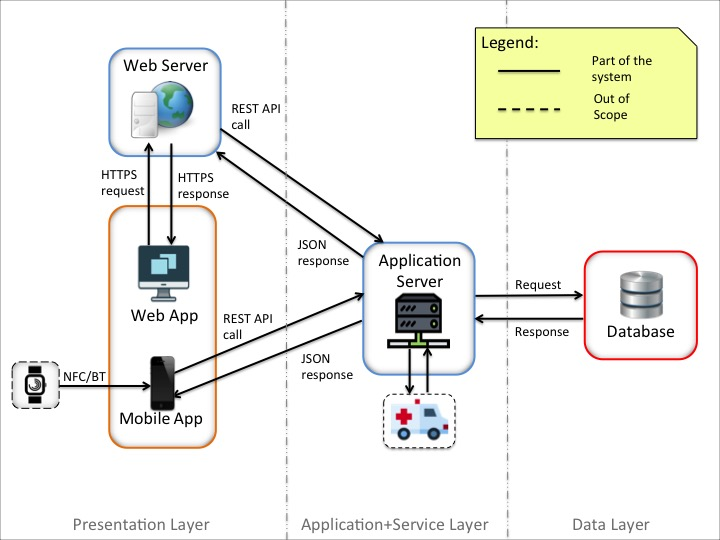
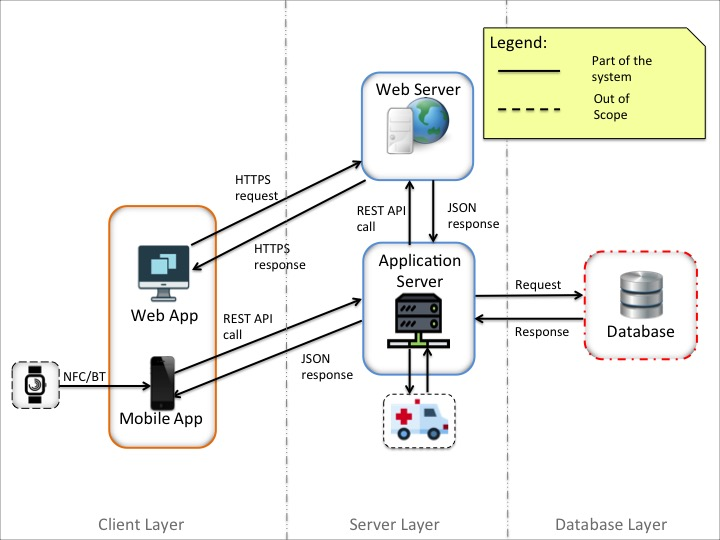
Updates from ShareLaTeX

diff --git a/DD/main.tex b/DD/main.tex
@@ -28,7 +28,7 @@
 
 \section{Introduction}
 \subsection{Purpose}
-    The Purpose of this Design Document is to provide the precise implementation details required to satisfy the requirements specified in the RASD.
+    The Purpose of this Design Document is to provide the precise implementation details required to satisfy the requirements specified in the RASD \cite{rasd}.
     It is assumed that the reader has read the RASD before this document.
     
     The purpose of this paper is also to point out the main components, their interfaces and their behaviours, show the high level architecture and its interaction with architectural components and to identify style and design patterns that shall be used in deployment of the application. This Document will provide detailed explanation of each functionality through components and sequence diagrams also used to explain to programmers the overall structure of the system in a precise and implementation-oriented way.
@@ -91,14 +91,18 @@
                 \acro{RASD}{Requirement Analysis and Specification Document}
                 \acro{UX}{User eXperience}
                 \acro{ER}{Entity Relationship}
+                \acro{DAO}{Data Access Object}
+                \acro{DTO}{Data Transfer Object}
             \end{acronym}
             
             \subsubsection{Definitions}
             \begin{description}
                  \item[Business Logic Layer] another term to intend the Application and Service Layers together
-                 \item[Controller] a component of the presentation layer that is responsible of handling events from the client
+                 \item[Controller] a component of the application layer that is responsible of handling events from the client
                  \item[Service] part of the business logic, is the core logic of a specific function or set of functions
                  \item[Repository] is the component that handles query methods against the database
+                 \item[Data Access Object] sometimes called \textit{Entity}, is the object used by Repository to map data to a specific object thus, it should encapsulate the logic for retrieving, saving and updating data in the data storage
+                 \item[Data Transfer Object] also called \textit{Bean} is the representation of a DAO and it is used to transfer the data between modules of the application
             \end{description}
             
             \subsubsection{Abbreviation}
@@ -142,16 +146,16 @@
 \newpage
 \section{Architectural Design}
 \subsection{High Level Components and their Interaction}
-The system is deployed on four different tiers: the Data layer, the Application Layer, the Service layer and the Presentation layer, that are respectively mapped on the four main components of the software application: the data handling logic, the services, the controllers and the client application.
+The system is deployed on three different tiers: the Persistence layer, the Service layer and the Application layer, that are respectively mapped on the three main components of the software application: the data handling logic, the services, and the controllers.
 \begin{figure}[!htpb]
     	\centering
     	\includegraphics[width=100mm,keepaspectratio]{images/highlevel.jpg}
     	\caption{High Level interaction diagram}
 \end{figure}
 
-The main component is the system itself and includes both the \textit{Web Server} and the \textit{Application Server}. The former communicates in synchronous way over HTTPS with client browser or mobile application, while the latter manages all the application logic and it is interfaced with the \textit{Data Layer}. Furthermore, the \textit{Presentation Layer} can also \textit{consume} REST services made available by the \textit{Application Server}. The \textit{Data Layer} instead is composed of the data management logic and is responsible of the communication with the DBMS.
+The main component is the system itself and includes both the \textit{Web Server} and the \textit{Application Server}. The former communicates in synchronous way over HTTPS with client browser or mobile application, while the latter manages all the application logic and it is interfaced with the \textit{Persistence Layer}. Furthermore, the \textit{Application Layer} can also \textit{consume} REST services made available by the \textit{Application Server}. The \textit{Persistence Layer} instead is composed of the data management logic and is responsible of the communication with the DBMS.
 
-Moreover, both the \textit{Business Logic Layer} and the \textit{Presentation Layer} should interact with external services:
+Moreover, both the \textit{Business Logic Layer} and the \textit{Application Layer} should interact with external services:
 
 \begin{itemize}
     \item The \textit{Mobile Application} may be connected with an external device such as smart-watches, specific pathology's monitoring devices or other types of external devices able to monitor health parameters with BT or NFC connection;
@@ -164,14 +168,12 @@ Moreover, both the \textit{Business Logic Layer} and the \textit{Presentation La
     	\includegraphics[width=100mm,keepaspectratio]{images/highlevel2.png}
     	\caption{High Level components diagram}
 \end{figure}
-\hfill
-\comment{googlemaps api doesn't interact with server}
+
 \newpage
 \subsection{Component View}
     
-    \subsubsection{Data Layer}
-    
-    \comment{this should be below the class diagram, not here. I think this is also useless to say for every repository "this saves and get data...": just say that our repositories job is to access database. each repository can access a table in our db.}
+    \subsubsection{Persistence Layer}
+        
     \paragraph{Health Data Repository:}
     saves and get individuals' health data from the database.
     
@@ -216,6 +218,11 @@ Moreover, both the \textit{Business Logic Layer} and the \textit{Presentation La
     \paragraph{Track4Run Service:}
     is encharged of handling runs for creation, enrollment and watching.
     
+    \subsubsection{External Services}
+    
+    \paragraph{Dispatcher API:}
+    used by the Sos service to communicate with ambulances dispatcher.
+    
     \subsubsection{Application Layer}
     
     \paragraph{Authenticator Controller:}
@@ -236,34 +243,17 @@ Moreover, both the \textit{Business Logic Layer} and the \textit{Presentation La
     \paragraph{Run Controller:}
     handles the creation of a run and allows both Athletes and Spectators to respectively enroll and watch run. This component also handles for organizer definition of the path of the run and, for spectators, watching that run to see athletes position and the predefined path on an interactive map.
     
-    \subsubsection{External Services}
-    
-    \paragraph{Dispatcher API:}
-    used by the Sos service to communicate with ambulances dispatcher.
-    
-    \subsubsection{Presentation Layer}
-    
-    \paragraph{Model:}
-    a set of components representing the data used to build the user interface.
+    \subsubsection{Presentation Layer (Client)}
     
     \paragraph{View:}
-    a set of components responsible of showing the data related to the respective model.
     
     \paragraph{Google Maps API:}
-    used by the client to create maps through Google Maps services.
+    used by the client application to create maps through Google Maps services.
     
     \paragraph{External Device API:}
-    used to connect and get data from the Individual external device from a common smart-watch to a specific pathology monitoring device.
+    allows connection with and data acquisition from the Individual external device from a common smart-watch to a specific pathology monitoring device.
 
 \newpage
-\subsection{Deployment View}
-\begin{figure}[!htpb]
-    \centering
-    \includegraphics[width=100mm,keepaspectratio]{images/UML/deployment_TrackMe.jpg}
-    \caption{TrackMe Deployment Diagram}
-    \label{fig:deployment_trackme}
-\end{figure}
-
 \subsection{Component Interfaces}
 \begin{figure}[!htpb]
     \centering
@@ -296,26 +286,35 @@ Moreover, both the \textit{Business Logic Layer} and the \textit{Presentation La
     \label{fig:component_track4run}
 \end{figure}
 
-    \begin{figure}[!htpb]
-        \centering
-        \includegraphics[width=\textwidth,keepaspectratio]{DD/images/er_diagram.png}
-        \caption{ER Diagram}
-        \label{fig:ER_trackme}
-    \end{figure}
+\begin{figure}[!htpb]
+    \centering
+    \includegraphics[width=100mm,keepaspectratio]{DD/images/er_diagram.png}
+    \caption{ER Diagram}
+    \label{fig:ER_trackme}
+\end{figure}
+
+\newpage
+\subsection{Deployment View}
+\begin{figure}[!htpb]
+    \centering
+    \includegraphics[width=100mm,keepaspectratio]{images/UML/deployment_TrackMe.jpg}
+    \caption{TrackMe Deployment Diagram}
+    \label{fig:deployment_trackme}
+\end{figure}    
     
 \newpage
 \subsection{Runtime View}
 
 \newpage
 \subsection{Selected Architectural Styles and Patterns}
-    The overall architecture is structured as a multi tier architecture: the \textit{Pre-\newline sentation Layer}, the \textit{Application Layer}, the \textit{Service Layer} and the \textit{Data Layer}. The latter communicates with a DBMS and is encharged of keeping data synchro-\newline nized with the database.
+    The overall architecture is structured as a multi tier architecture: the \textit{Pre-\newline sentation Layer}, the \textit{Service Layer} and the \textit{Persistence Layer}. The latter communicates with a DBMS and is encharged of keeping data synchro-\newline nized with the database.
     
-    With respect to the first three tiers instead, on one hand there is the client which will be represented by the \textit{Presentation Tier}: the mobile application installed on the mobile device. On the other hand, the server is the \textit{Application Tier} and \textit{Service Tier}: the latter handles all the application logic and services, the former instead is an abstraction layer that specifies the shared communica-\newline tions protocols and interface methods used by hosts in a communications network.
+    With respect to the first two tiers instead, on one hand there is the client which will be represented by the \textit{Presentation Tier}: the mobile application installed on the mobile device. On the other hand, the server is the \textit{Service Tier}: the latter handles all the application logic and services, the former instead is an abstraction layer that specifies the shared communications protocols and interface methods used by hosts in a communications network.
     
     In order to implement such architecture, based on RESTful API, the following architectural style and design pattern should be taken into account:
     \begin{description}
         \item[Multi-tier Architecture:] as showed previously in this document, the layered architecture pattern allows developers to separate the presentation from the business logic and to realize a thin client with only the user interfaces and input forms and a more complex server that handles all the software services;
-        \item[Model View Controller:] in this pattern there are three entities: the \textit{Model} which came from the presentation layer and essentially maintains all the data related to a certain client event, the \textit{View} that is responsible of showing to customers model's data, and finally the \textit{Controller} that is the bridge between \textit{Presentation} and \textit{Service} layers and is responsible of handling all the events related to a certain \textit{Model} and further refresh of the related \textit{View}.
+        \item[Model View Controller:] in this pattern there are three entities: the \textit{Model} which essentially maintains all the data related to a certain client event, the \textit{View} that is responsible of showing to customers model's data, and finally the \textit{Controller} that is the bridge between \textit{Presentation} and \textit{Service} layers and is responsible of handling all the events related to a certain \textit{Model} and further refresh of the related \textit{View}.
     \end{description}
 
 \subsection{Other Design Decisions}
@@ -570,30 +569,74 @@ Once in the \textit{Truck4Run} section, the individual can create, watch, enroll
 
 \newpage
 \section{Implementation, Integration \& Test Plan}
-Due to the multi-tier architecture style, the different \textit{Presentation}, \textit{Application}, \textit{Domain} and \textit{Data} layers of the application could be developed separately and may be developed in parallel. With respect to specific application services, the implementation plan to be followed should be to develop first \textit{Data4Help} functions and then \textit{Automated-Sos} and \textit{Authentication} facilities, which are built on top of \textit{Data4Help} service.
+Due to the multi-tier architecture style, the different \textit{Presentation}, \textit{Application}, \textit{Domain} and \textit{Data} layers of the application could be developed separately and may be developed in parallel. With respect to specific application services, the implementation plan to be followed should be to develop first \textit{Data4Help} functions and then \textit{Automated-Sos} and \textit{Track4Run} facilities, which are built on top of \textit{Data4Help} service. \textit{Authentication} subsystem instead can be implemented independently on the order on which other components are; an implementation strategy for this module is to deploy it in parallel with Data4Help subsystem.
 
 Despite this document follows a \textit{Top-Down} style starting from an high level point of view to a detailed components and operations description, we advise an \textit{I\&T} plan following the \textit{Bottom-Up} approach, in which modules at lowest layer will be tested first and upper layers will follow then.
 
-The unit testing is focused on testing all the software components' features, then the test will proceed to the integration phase: integration of two operations will start only after components executing that operations pass the unit test to ensure that the components theirself work fine and that any failure is related to the integration itself.
-
-Components to be integrated are:
+The unit testing is focused on testing all the software components' features, then the test will proceed to the integration phase: integration of two operations will start only after components executing that operations pass the unit test to ensure that the components themselves work fine and that any failure is related to the integration itself. Components to be tested are listed below:
 
 \begin{enumerate}
-    \item Integration between components of \textit{Data4Help} Subsystem:
 
-    \item Integration between components of \textit{AutomatedSos} Subsystem:
-
-    \item Integration between components of \textit{Track4Run} Subsystem:
-    
     \item Integration between Authenticator Controller and Service:
-
+    \begin{figure}[!htpb]
+    	\centering
+    	\includegraphics[width=100mm]{images/test/authenticator_integration.png}
+    \end{figure}
+    
+    \item Integration between components of \textit{Data4Help} Subsystem:
+    \begin{figure}[!htpb]
+    	\centering
+    	\includegraphics[width=100mm]{images/test/data4help_integration.png}
+    \end{figure}
+    \newpage
+    \begin{figure}[!htpb]
+    	\centering
+    	\includegraphics[width=100mm]{images/test/data4help_subscription_integration.png}
+    \end{figure}
+    
+    \item Integration between components of \textit{AutomatedSos} Subsystem:
+    \begin{figure}[!htpb]
+    	\centering
+    	\includegraphics[width=100mm]{images/test/automated_sos_integration.png}
+    \end{figure}
+    
+    \item Integration between components of \textit{Track4Run} Subsystem:
+    \begin{figure}[!htpb]
+    	\centering
+    	\includegraphics[width=100mm]{images/test/track4run_integration.png}
+    \end{figure}
+    
 \end{enumerate}
 
-\subsubsection{Entry Criteria}
-The integration phase will start only when the completion of the components involved in the integration should be at least 50\% for the \textit{"services"} and at least 70\% for \textit{"repositories"}: at least critical operations should have been implemented and should have passed the unit test.
+\subsubsection{Unit Test}
+The \textit{Unit Test} phase will start only after:
+\begin{itemize}
+    \item the proposed system architecture has been designed and reviewed;
+    \item testable code for units to be tested is available;
+    \item the test environment has been properly configured and is ready to run.
+\end{itemize}
+
+\subsubsection{Integration Test}
+The \textit{Integration Test} phase will start only when:
+\begin{itemize}
+    \item Unit Test phase is completed;
+    \item each component has gone through and passed the unit test phase before the integration phase;
+    \item all priority bugs found in the unit test phase are fixed and marked as solved;
+    \item the test environment has been properly configured and is ready to run.
+\end{itemize}
 
 \subsubsection{Exit Criteria}
-The test should cover at least 90\% of all the components of the business logic layer and at least 60\% for the presentation layer. The testing phase will be suspended in case such percentages are lower than 50\% for the application logic and lower than 30\% for other subsystems. If \textit{I\&T} exit conditions are satisfied, the test phase can move on to the System Testing in which Load, Performance and Stress tests may be useful to highlight some Quality of Service leaking of the system.
+The test should cover 100\% of all test cases that involve components of the business logic and persistence layer and at least 80-90\% for the application layer. The testing phase will be suspended in case such percentages are lower than 50\% for the application and data logic and lower than 30\% for application layer. Conditions to be satisfied listed below:
+
+\begin{itemize}
+    \item all test cases must have been executed;
+    \item 90-100\% coverage of the requirements and functions has been achieved;
+    \item 70-80\% coverage of the source code has been achieved;
+    \item all high severity or top priority bug has been fixed;
+    \item high risk identified area has been taken up and tested.
+\end{itemize}
+
+If \textit{I\&T} exit criteria are satisfied, the test phase can move on to the System Testing in which Load, Performance and Stress tests may be useful to highlight some Quality of Service leaking of the system.
 
 \newpage
 \section{Effort Spent}
